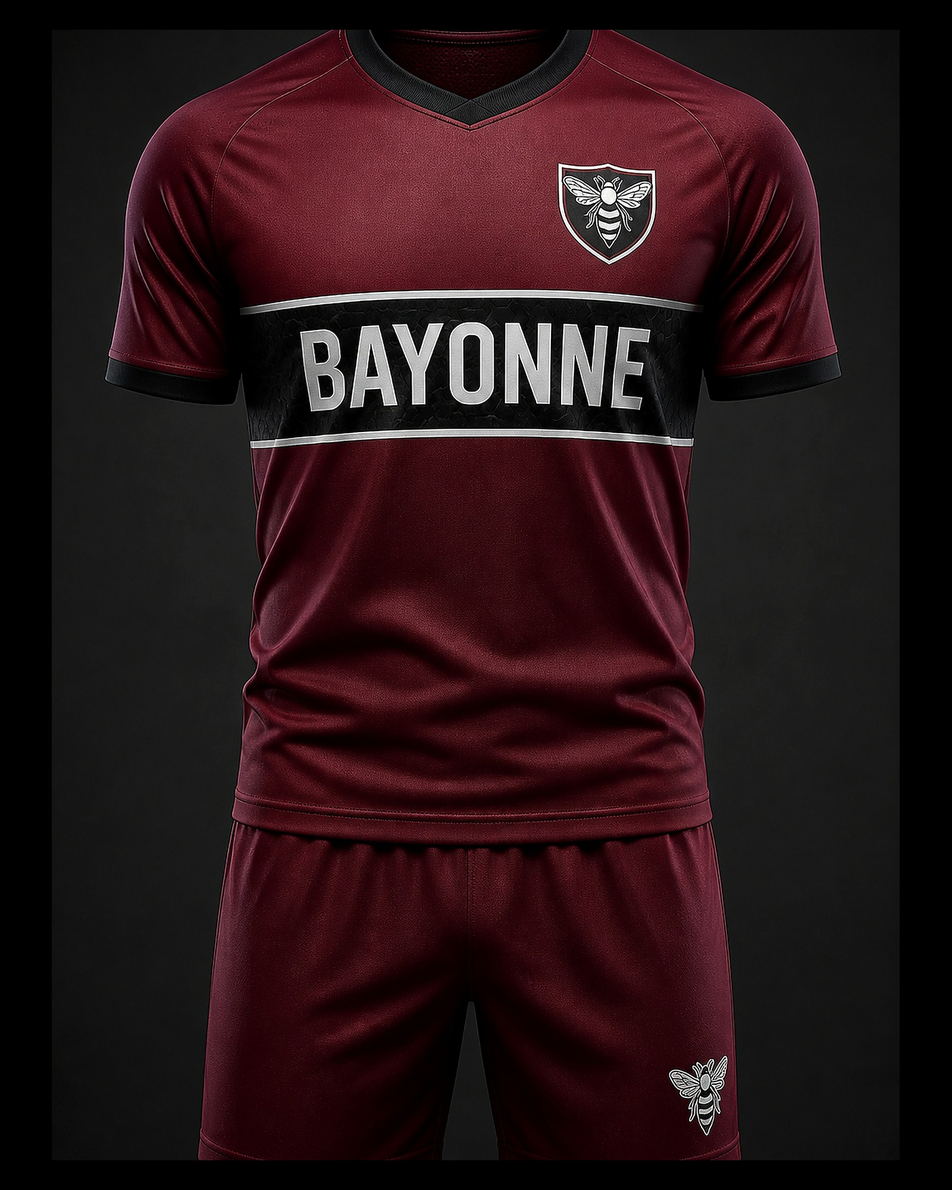
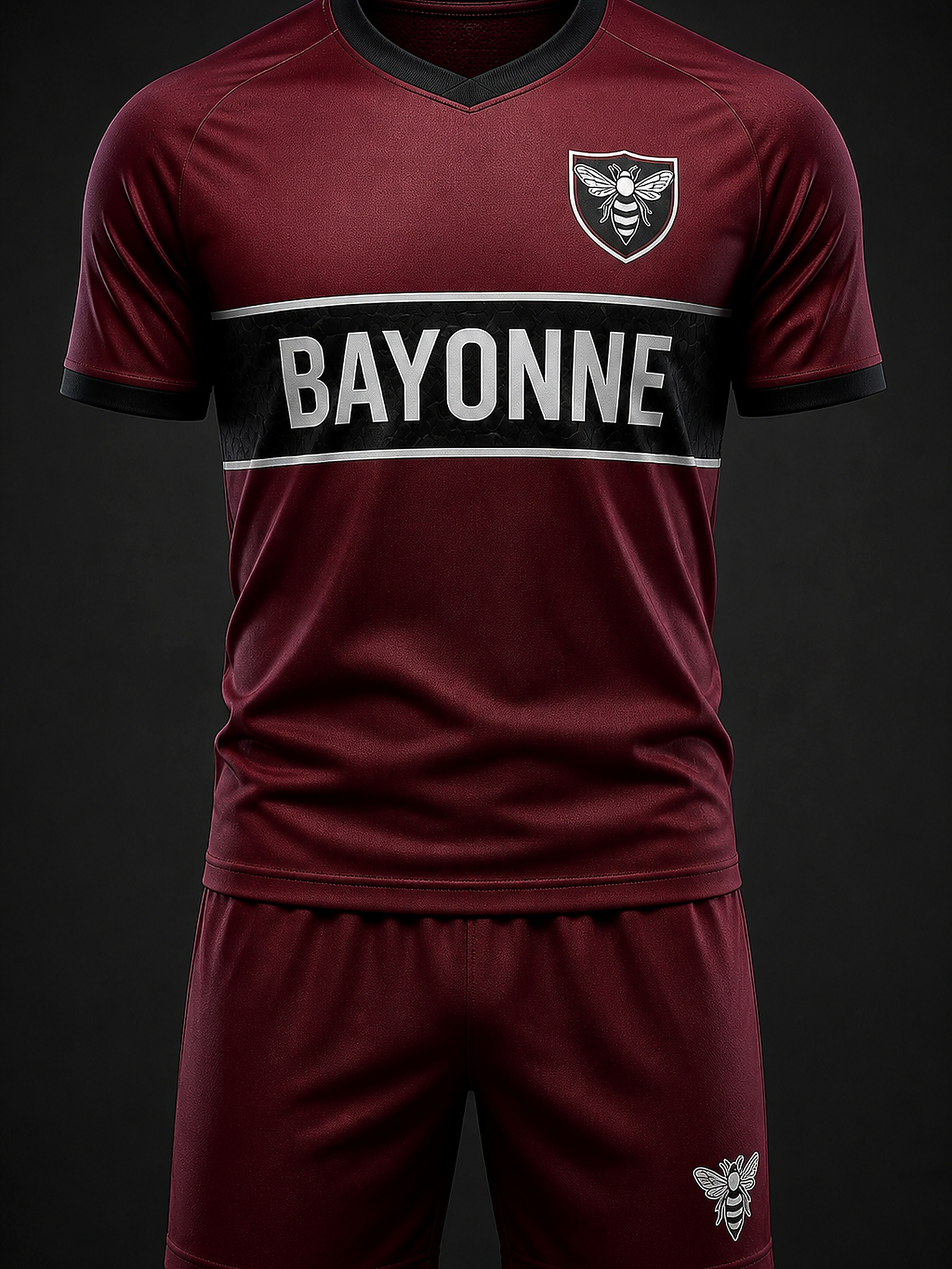
Ogilvy landing: brand-first hero, clean kit plates, sharper bee
Replace the weak landing hero with a product-as-proof composition —
BAYONNE BEES lockup leads, kit is the full-bleed evidence. Strengthen
store header the same way. Restore clean Match kit plates (no red-glow
edit artifacts). Upscale and sharpen boxing bee iconography.

diff --git a/src/routes/team.index.tsx b/src/routes/team.index.tsx
@@ -9,9 +9,9 @@ import { BAYONNE_BEES_KIT } from "@/lib/kits/bayonne-bees";
 export const Route = createFileRoute("/team/")({
   head: () => {
     const title =
-      "Bayonne has worn garnet and white since 1936. Most sweatshirts get the color wrong. | No Parade F.C.";
+      "Bayonne Bees Team Customs — garnet specified right since 1936 | No Parade F.C.";
     const description =
-      "Every garment is specified in Bayonne’s actual garnet — not maroon, not burgundy, not cardinal. Match kit from $34. Personalize and checkout. No Parade F.C., Bayonne, NJ.";
+      "Bayonne Bees team customs in the school’s actual garnet — not maroon, not burgundy, not cardinal. Match kit from $34. Personalize and checkout. No Parade F.C., Bayonne, NJ.";
     return {
       meta: [
         { title },
@@ -30,6 +30,11 @@ const LOWEST = Math.min(...PRODUCTS.map((p) => p.price));
 const jersey = productById("jersey")!;
 const fullSet = productById("full-set")!;
 
+/**
+ * Ogilvy landing: product is the proof.
+ * Brand (BAYONNE BEES) leads the first viewport; the kit is the full-bleed evidence;
+ * one fact headline, one line of support, one CTA group.
+ */
 function TeamLanding() {
   const kit = BAYONNE_BEES_KIT;
 
@@ -39,49 +44,63 @@ function TeamLanding() {
         <div className="absolute inset-0" aria-hidden>
           <img
             src={landingHero}
-            alt=""
-            className="h-full w-full object-cover object-center motion-safe:animate-team-hero-drift"
+            alt="Bayonne Bees Match kit in school garnet"
+            className="h-full w-full object-cover object-[center_28%] motion-safe:animate-team-hero-drift"
           />
-          <div className="absolute inset-0 bg-[linear-gradient(180deg,rgba(8,6,8,0.4)_0%,rgba(8,6,8,0.25)_38%,rgba(8,6,8,0.82)_70%,rgba(8,6,8,0.96)_100%)]" />
+          {/* Editorial grade — keep the garment readable, type legible */}
+          <div className="absolute inset-0 bg-[radial-gradient(ellipse_at_50%_35%,rgba(8,6,8,0.15)_0%,rgba(8,6,8,0.55)_55%,rgba(8,6,8,0.92)_100%)]" />
+          <div className="absolute inset-x-0 top-0 h-[42%] bg-gradient-to-b from-black/70 via-black/25 to-transparent" />
+          <div className="absolute inset-x-0 bottom-0 h-[48%] bg-gradient-to-t from-black via-black/70 to-transparent" />
         </div>
 
-        <div className="relative z-10 mx-auto flex min-h-dvh w-full max-w-[560px] flex-col px-6 pb-14 pt-10">
-          <p className="label-caps text-bone/60 motion-safe:animate-team-rise">
-            No Parade F.C. · Bayonne, NJ
-          </p>
+        <div className="relative z-10 mx-auto flex min-h-dvh w-full max-w-[560px] flex-col px-6 pb-12 pt-8">
+          {/* Brand lockup — hero-level signal */}
+          <header className="motion-safe:animate-team-logo-in">
+            <div className="flex items-center gap-3">
+              <img
+                src={boxingBee}
+                alt=""
+                className="h-14 w-14 shrink-0 object-contain drop-shadow-[0_2px_12px_rgba(0,0,0,0.65)] motion-safe:animate-team-bee-pulse sm:h-16 sm:w-16"
+              />
+              <div className="min-w-0">
+                <p className="font-kit text-[clamp(2rem,10vw,3.4rem)] leading-none tracking-[0.04em] text-bone">
+                  BAYONNE BEES
+                </p>
+                <p className="label-caps mt-1.5 text-bone/55">No Parade F.C. · Team Customs</p>
+              </div>
+            </div>
+          </header>
 
-          <div className="mt-8 flex flex-1 flex-col justify-center motion-safe:animate-team-logo-in">
-            <h1 className="font-kit text-[clamp(2.1rem,9vw,3.25rem)] leading-[1.02] tracking-[0.02em] text-bone">
-              Bayonne has worn garnet and white since 1936. Most sweatshirts get the color
-              wrong.
+          <div className="mt-auto space-y-5 pt-10 motion-safe:animate-team-rise [animation-delay:120ms]">
+            <h1 className="max-w-[22rem] font-kit text-[clamp(1.55rem,6.2vw,2.15rem)] leading-[1.12] tracking-[0.02em] text-bone">
+              Garnet since 1936. Most spirit wear gets the color wrong.
             </h1>
-            <p className="mt-5 max-w-[30rem] text-lg leading-snug text-bone/75">
-              Every garment here is specified in Bayonne’s actual garnet — not maroon, not
-              burgundy, not cardinal. From ${LOWEST}.
+            <p className="max-w-[26rem] text-base leading-snug text-bone/72">
+              Specified in Bayonne’s actual garnet — not maroon, not burgundy, not cardinal.
+              From ${LOWEST}.
             </p>
-          </div>
 
-          <div className="mt-auto space-y-3 pt-8 motion-safe:animate-team-rise [animation-delay:160ms]">
-            <Link
-              to="/team/$slug/$product"
-              params={{ slug: kit.slug, product: jersey.id }}
-              className="label-caps inline-flex w-full items-center justify-center bg-garnet px-6 py-4 text-bone transition-[transform,opacity] duration-300 hover:opacity-90 motion-safe:active:scale-[0.99]"
-            >
-              Shop Match jersey · ${jersey.price}
-            </Link>
-            <Link
-              to="/team/$slug"
-              params={{ slug: kit.slug }}
-              className="label-caps inline-flex w-full items-center justify-center border border-bone/25 px-6 py-4 text-bone/85 transition-colors hover:border-bone hover:text-bone"
-            >
-              Browse the Bayonne store — from ${LOWEST}
-            </Link>
-            <StoreCloseCountdown closesAt={kit.closesAt} />
+            <div className="space-y-3 pt-1">
+              <Link
+                to="/team/$slug/$product"
+                params={{ slug: kit.slug, product: jersey.id }}
+                className="label-caps inline-flex w-full items-center justify-center bg-garnet px-6 py-4 text-bone transition-[transform,opacity] duration-300 hover:opacity-90 motion-safe:active:scale-[0.99]"
+              >
+                Shop Match jersey · ${jersey.price}
+              </Link>
+              <Link
+                to="/team/$slug"
+                params={{ slug: kit.slug }}
+                className="label-caps inline-flex w-full items-center justify-center border border-bone/30 px-6 py-4 text-bone/90 transition-colors hover:border-bone hover:text-bone"
+              >
+                Browse the Bayonne store
+              </Link>
+              <StoreCloseCountdown closesAt={kit.closesAt} />
+            </div>
           </div>
         </div>
       </section>
 
-      {/* Fast path — most families start here */}
       <section className="border-t border-bone/10 bg-[#12090b] px-6 py-12">
         <div className="mx-auto w-full max-w-[560px]">
           <p className="label-caps text-bone/50">Start here</p>
@@ -89,8 +108,8 @@ function TeamLanding() {
             Most families begin with the Match jersey.
           </h2>
           <p className="mt-3 text-base leading-relaxed text-bone/70">
-            Collar says BAYONNE. Name and number on the back — you type them; we print them.
-            Preview before you pay.
+            Black V-neck. Name and number on the back — you type them; we print them. Preview
+            before you pay.
           </p>
           <div className="mt-6 flex flex-col gap-3">
             <Link
@@ -111,7 +130,6 @@ function TeamLanding() {
         </div>
       </section>
 
-      {/* Long body — interested people read */}
       <section id="why-garnet" className="border-t border-bone/10 bg-[#0c0809] px-6 py-16">
         <div className="mx-auto w-full max-w-[560px] space-y-5 text-base leading-relaxed text-bone/75">
           <p>
@@ -132,9 +150,7 @@ function TeamLanding() {
             Things worth knowing before you order
           </h2>
           <ol className="list-decimal space-y-4 pl-5">
-            <li>
-              Live preview of your name and number on the jersey before you pay.
-            </li>
+            <li>Live preview of your name and number on the jersey before you pay.</li>
             <li>
               Every garment is specified in one matched garnet across the whole store. A crew
               bought in October matches a jersey ordered in April.
@@ -200,7 +216,11 @@ function TeamLanding() {
                 </li>
               </ul>
             </div>
-            <img src={boxingBee} alt="" className="h-14 w-14 shrink-0 object-contain" />
+            <img
+              src={boxingBee}
+              alt=""
+              className="h-20 w-20 shrink-0 object-contain drop-shadow-[0_2px_10px_rgba(0,0,0,0.5)]"
+            />
           </div>
           <div className="mt-10 flex flex-col gap-3">
             <Link

diff --git a/src/routes/team.$slug.index.tsx b/src/routes/team.$slug.index.tsx
@@ -35,23 +35,33 @@ function TeamStorePage() {
   return (
     <main className="mx-auto min-h-screen w-full max-w-[560px] bg-background pb-20">
       <header className="border-b border-border px-5 pb-5 pt-6">
-        <div className="flex items-start justify-between gap-4">
-          <div>
-            <Link
-              to="/team"
-              className="label-caps text-muted-foreground transition-colors hover:text-foreground"
-            >
-              ← No Parade F.C.
-            </Link>
-            <h1 className="mt-2 text-4xl leading-none tracking-tight">Bayonne store</h1>
-            <p className="label-caps mt-1 text-muted-foreground">{kit.colorway.name}</p>
-            <p className="mt-2 max-w-sm text-base leading-snug text-muted-foreground">
-              Bayonne’s actual garnet — not maroon, not burgundy, not cardinal. Printed when
-              you order.
+        <Link
+          to="/team"
+          className="label-caps text-muted-foreground transition-colors hover:text-foreground"
+        >
+          ← No Parade F.C.
+        </Link>
+
+        <div className="mt-4 flex items-center gap-3">
+          <img
+            src={logo}
+            alt=""
+            className="h-16 w-16 shrink-0 object-contain sm:h-[4.5rem] sm:w-[4.5rem]"
+          />
+          <div className="min-w-0">
+            <h1 className="font-kit text-[clamp(2.1rem,9vw,3rem)] leading-none tracking-[0.04em]">
+              BAYONNE BEES
+            </h1>
+            <p className="label-caps mt-1.5 text-muted-foreground">
+              Team Customs · {kit.colorway.name}
             </p>
           </div>
-          <img src={logo} alt="" className="mt-1 h-14 w-14 shrink-0 object-contain" />
         </div>
+
+        <p className="mt-4 max-w-sm text-base leading-snug text-muted-foreground">
+          Bayonne’s actual garnet — not maroon, not burgundy, not cardinal. Printed when you
+          order.
+        </p>
 
         <div className="mt-4 flex items-baseline gap-2 border-t border-border pt-4">
           {closed ? (

diff --git a/src/lib/catalog.ts b/src/lib/catalog.ts
@@ -194,7 +194,7 @@ export const PRODUCTS: CatalogProduct[] = [
     handle: "bayonne-bees-jersey",
     name: "Match Jersey",
     blurb:
-      "Black V-neck. Solid garnet sleeves — no cuff bands. Black chest panel with BAYONNE. Crest left. Name and number on the back.",
+      "Black V-neck. Garnet field. Black chest panel with BAYONNE. Crest left. Name and number on the back.",
     category: "match",
     price: 58,
     shopifyItem: "top",
@@ -228,7 +228,7 @@ export const PRODUCTS: CatalogProduct[] = [
     handle: "bayonne-bees-full-set",
     name: "Full Kit Set",
     blurb:
-      "Black-collar jersey, solid garnet sleeves, matching shorts. One crest. Name and number on the jersey.",
+      "Black-collar jersey and matching shorts. One garnet. One crest. Name and number on the jersey.",
     category: "match",
     price: 89,
     shopifyItem: "set",

diff --git a/src/styles.css b/src/styles.css
@@ -200,14 +200,30 @@
   }
 }
 
+@keyframes team-bee-pulse {
+  0%,
+  100% {
+    transform: scale(1);
+    filter: drop-shadow(0 2px 12px rgba(0, 0, 0, 0.65));
+  }
+  50% {
+    transform: scale(1.04);
+    filter: drop-shadow(0 4px 18px rgba(90, 22, 38, 0.45));
+  }
+}
+
 @utility animate-team-rise {
   animation: team-rise 900ms cubic-bezier(0.22, 1, 0.36, 1) both;
 }
 
 @utility animate-team-hero-drift {
-  animation: team-hero-drift 18s ease-in-out infinite alternate;
+  animation: team-hero-drift 22s ease-in-out infinite alternate;
 }
 
 @utility animate-team-logo-in {
   animation: team-logo-in 1100ms cubic-bezier(0.22, 1, 0.36, 1) both;
+}
+
+@utility animate-team-bee-pulse {
+  animation: team-bee-pulse 4.5s ease-in-out infinite;
 }

diff --git a/docs/OGILVY_STORE_COPY.md b/docs/OGILVY_STORE_COPY.md
@@ -6,9 +6,10 @@ Ogilvy's rules: the headline does 80% of the work, it states a fact rather than 
 
 ## The headline
 
-> **Bayonne has worn garnet and white since 1936. Most sweatshirts get the color wrong.**
+> **Garnet since 1936. Most spirit wear gets the color wrong.**
 
-*Subhead:* Everything in this store is printed in Bayonne’s actual garnet — not maroon, not burgundy, not cardinal.
+*Brand lockup (hero-level):* BAYONNE BEES · No Parade F.C. Team Customs  
+*Subhead:* Specified in Bayonne’s actual garnet — not maroon, not burgundy, not cardinal.
 
 ---
 
@@ -55,10 +56,10 @@ Ogilvy's rules: the headline does 80% of the work, it states a fact rather than 
 
 Prices from current catalog. Fabric weights cut until measured.
 
-- **Match Jersey** — $58. Black V-neck. Solid garnet sleeves — no cuff bands. Black chest panel with BAYONNE. Crest left. Name and number on the back.
+- **Match Jersey** — $58. Black V-neck. Garnet field. Black chest panel with BAYONNE. Crest left. Name and number on the back.
 - **Match Shorts** — $34. Same garnet as the jersey. Geometric side panel you pick (front + side preview). No name or number.
 - **AOP Hat** — $36. All-over geo on the crown. Crest up front. Front + side preview.
-- **Full Kit Set** — $89. Black-collar jersey, solid garnet sleeves, matching shorts. One crest.
+- **Full Kit Set** — $89. Black-collar jersey and matching shorts. One garnet. One crest.
 - **Hoops Jersey** — $52. Black mesh. Garnet trim. Crest left. Number on the chest.
 - **Jersey Dress** — $72. One-piece sideline cut. Color-block basketball crest. Name and number on the back.
 - **1936 Crewneck** — $64. Garnet body, black geo side panels (front + side). Motif only — no lettering.

diff --git a/src/assets/bayonne/spirit/README.md b/src/assets/bayonne/spirit/README.md
@@ -4,7 +4,8 @@ Football / sideline energy for Bayonne Team Customs — not the whole site story
 
 | Asset | Use |
 |---|---|
-| `boxing-bee.png` | Boxing bee mark (store header, landing Spirit) |
+| `boxing-bee.png` | Boxing bee mark — high-res (landing + store headers) |
+| `boxing-bee-mark.png` | Compact 512px mark for tight UI slots |
 | `../heroes/hero-spirit-football.jpg` | Spirit category hero |
 | `../heroes/hero-spirit-stadium.jpg` | Alternate stadium spirit still |
 | `../heroes/hero-landing.jpg` | Universal Team Customs landing hero (current kit) |
